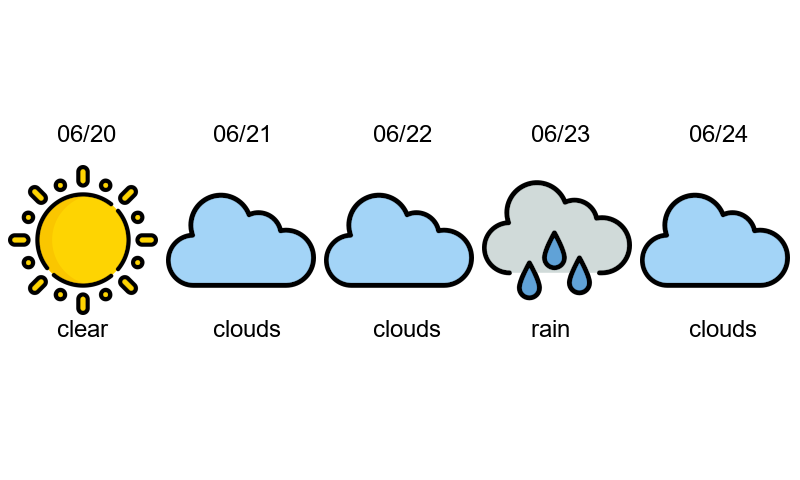
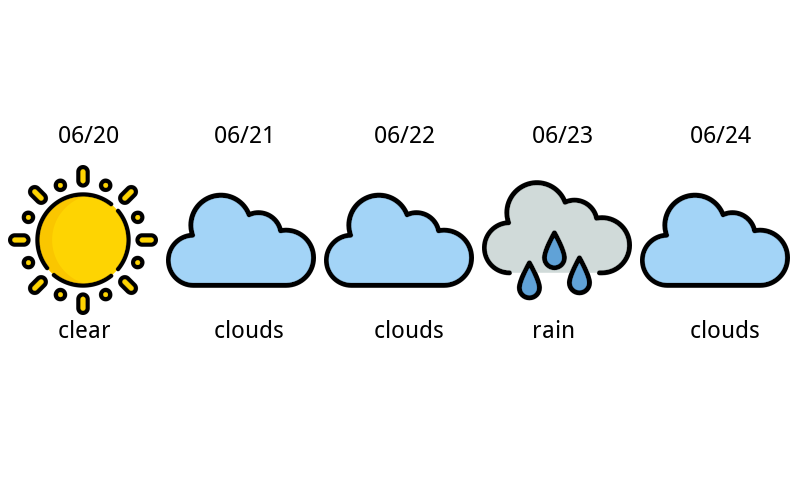
use different font

diff --git a/assets/tools/forecast_builder/WeatherData.py b/assets/tools/forecast_builder/WeatherData.py
@@ -14,7 +14,7 @@ CENTER = (CENTER_WIDTH, CENTER_HEIGHT)
 SPACING = 8
 TODAY = datetime.today().strftime("%m-%d-%Y")
 FONT_SIZE = 24
-FONT = ImageFont.truetype("arial.ttf", FONT_SIZE)
+FONT = ImageFont.truetype(CWD + "/assets/fonts/Font.ttc", FONT_SIZE)
 FONT_PX = FONT_SIZE / 72 * 96
 
 
